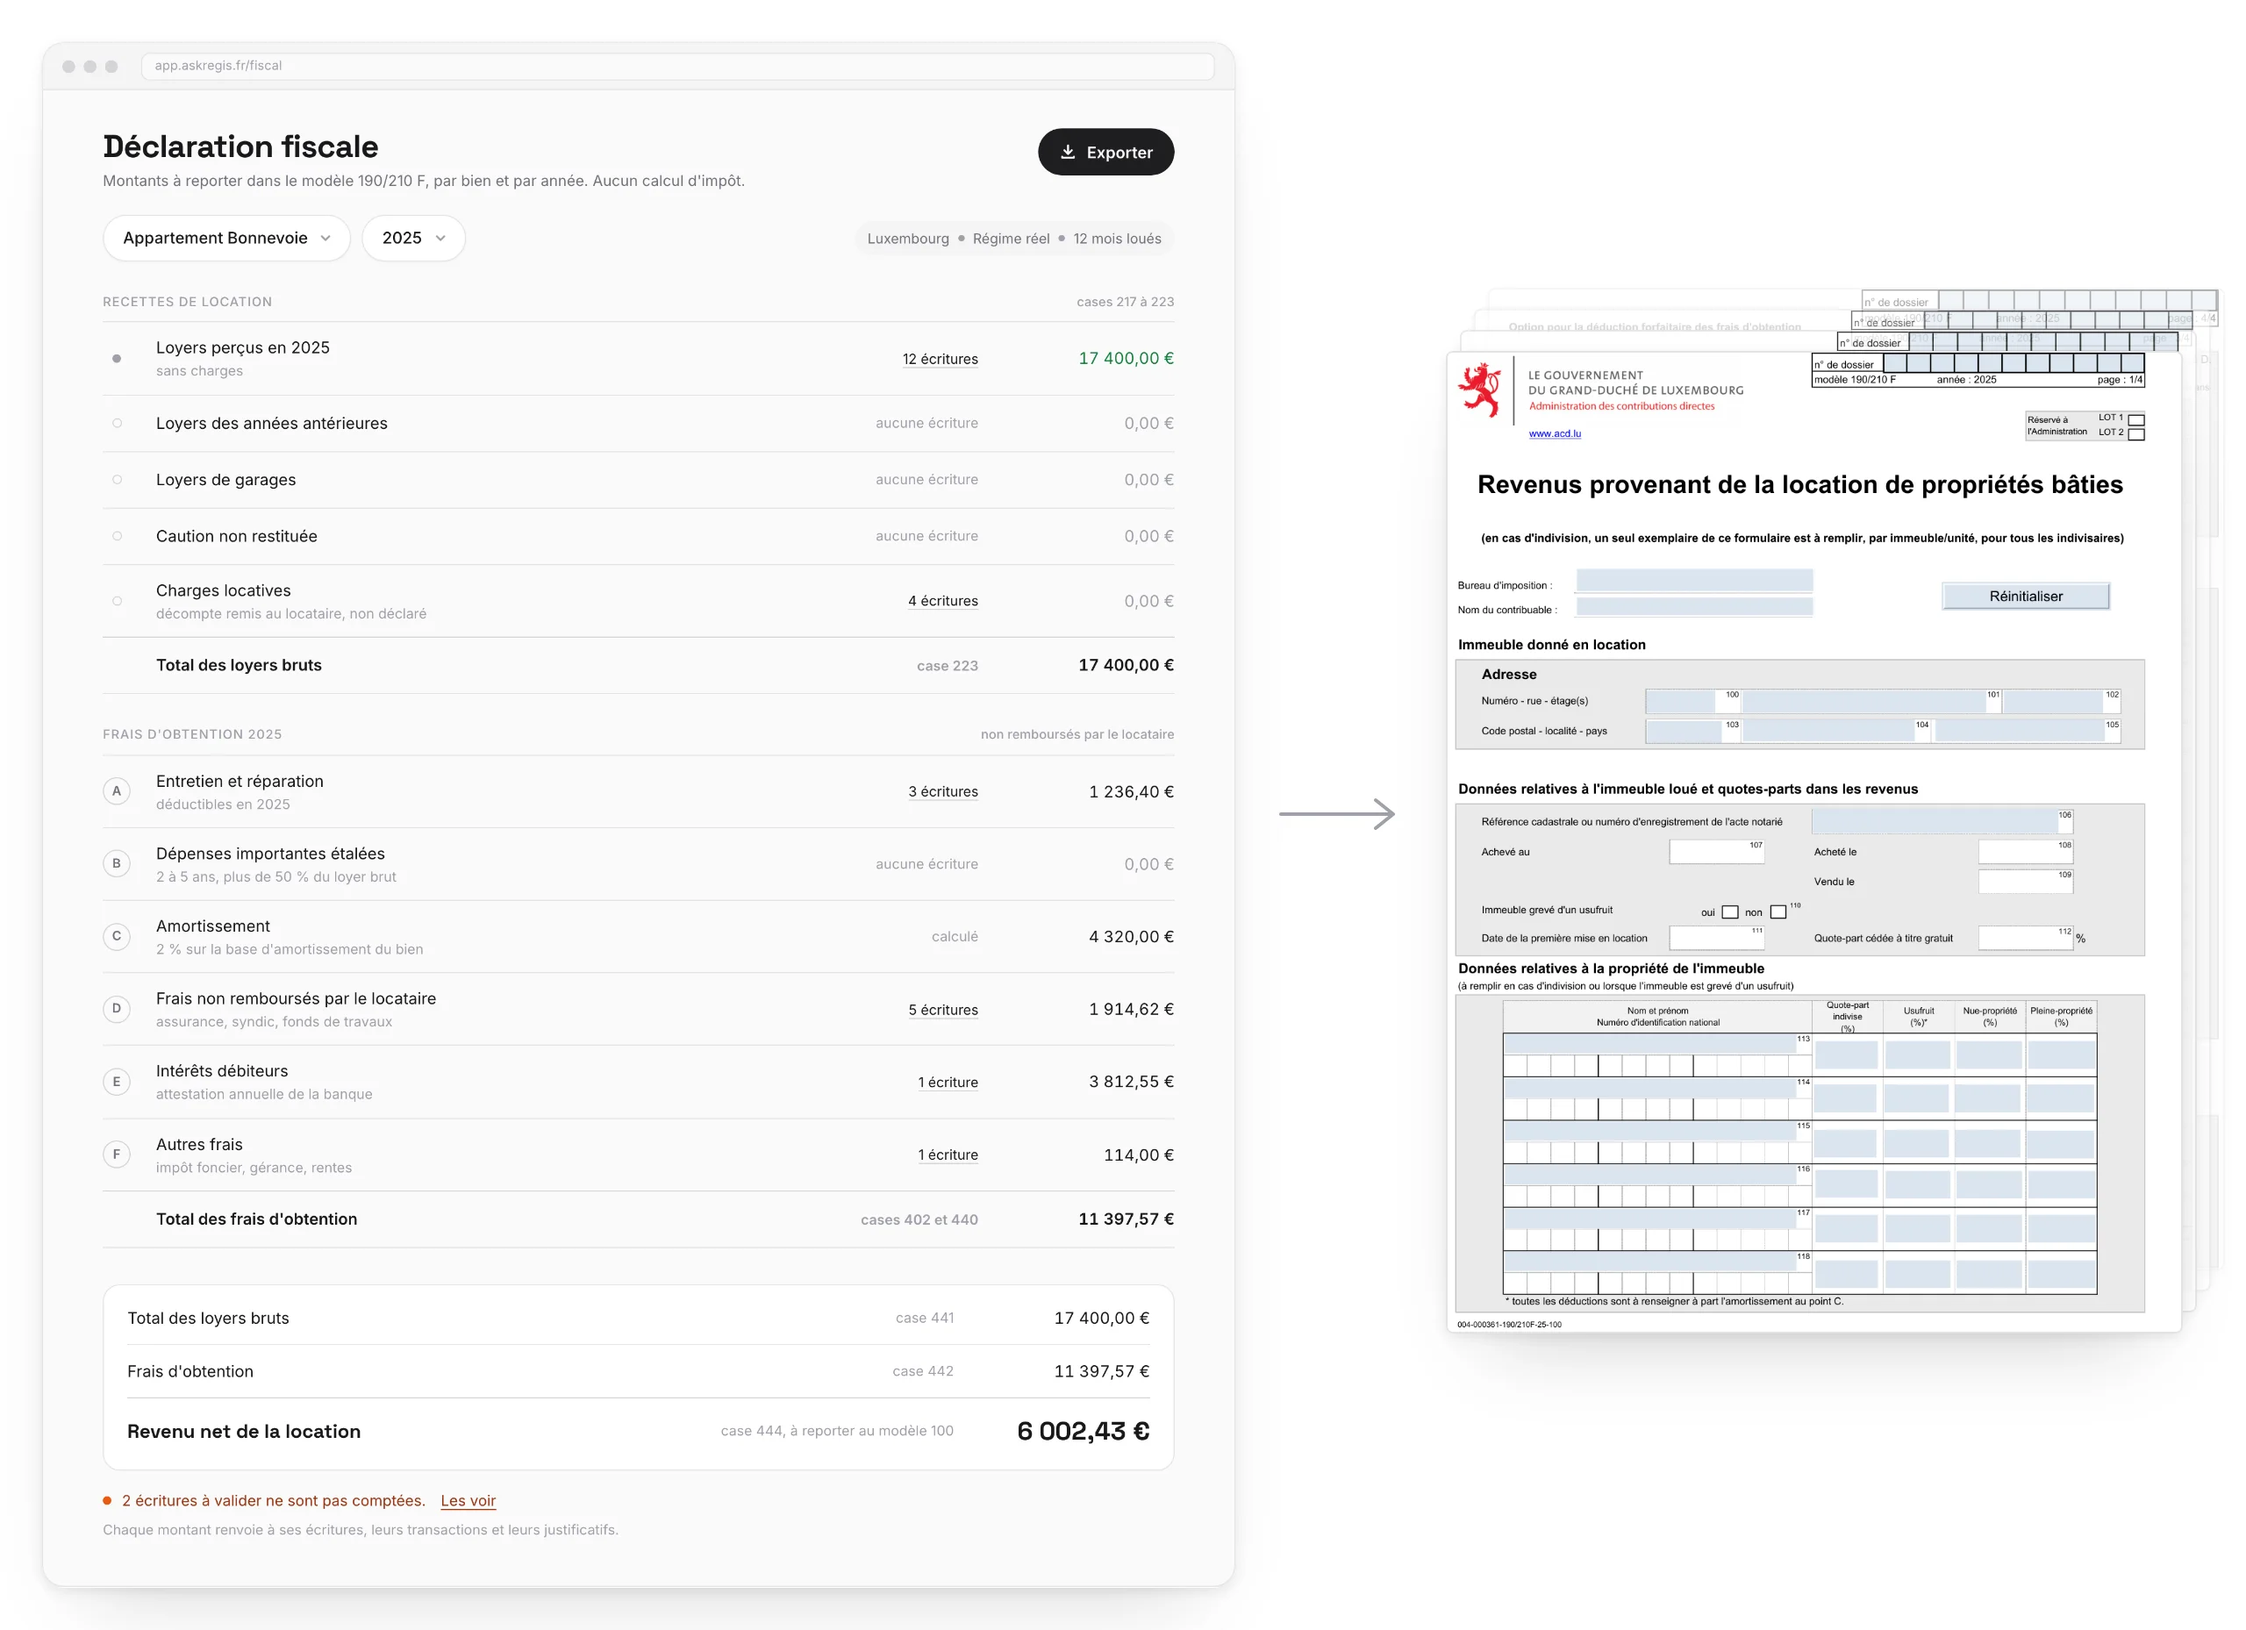
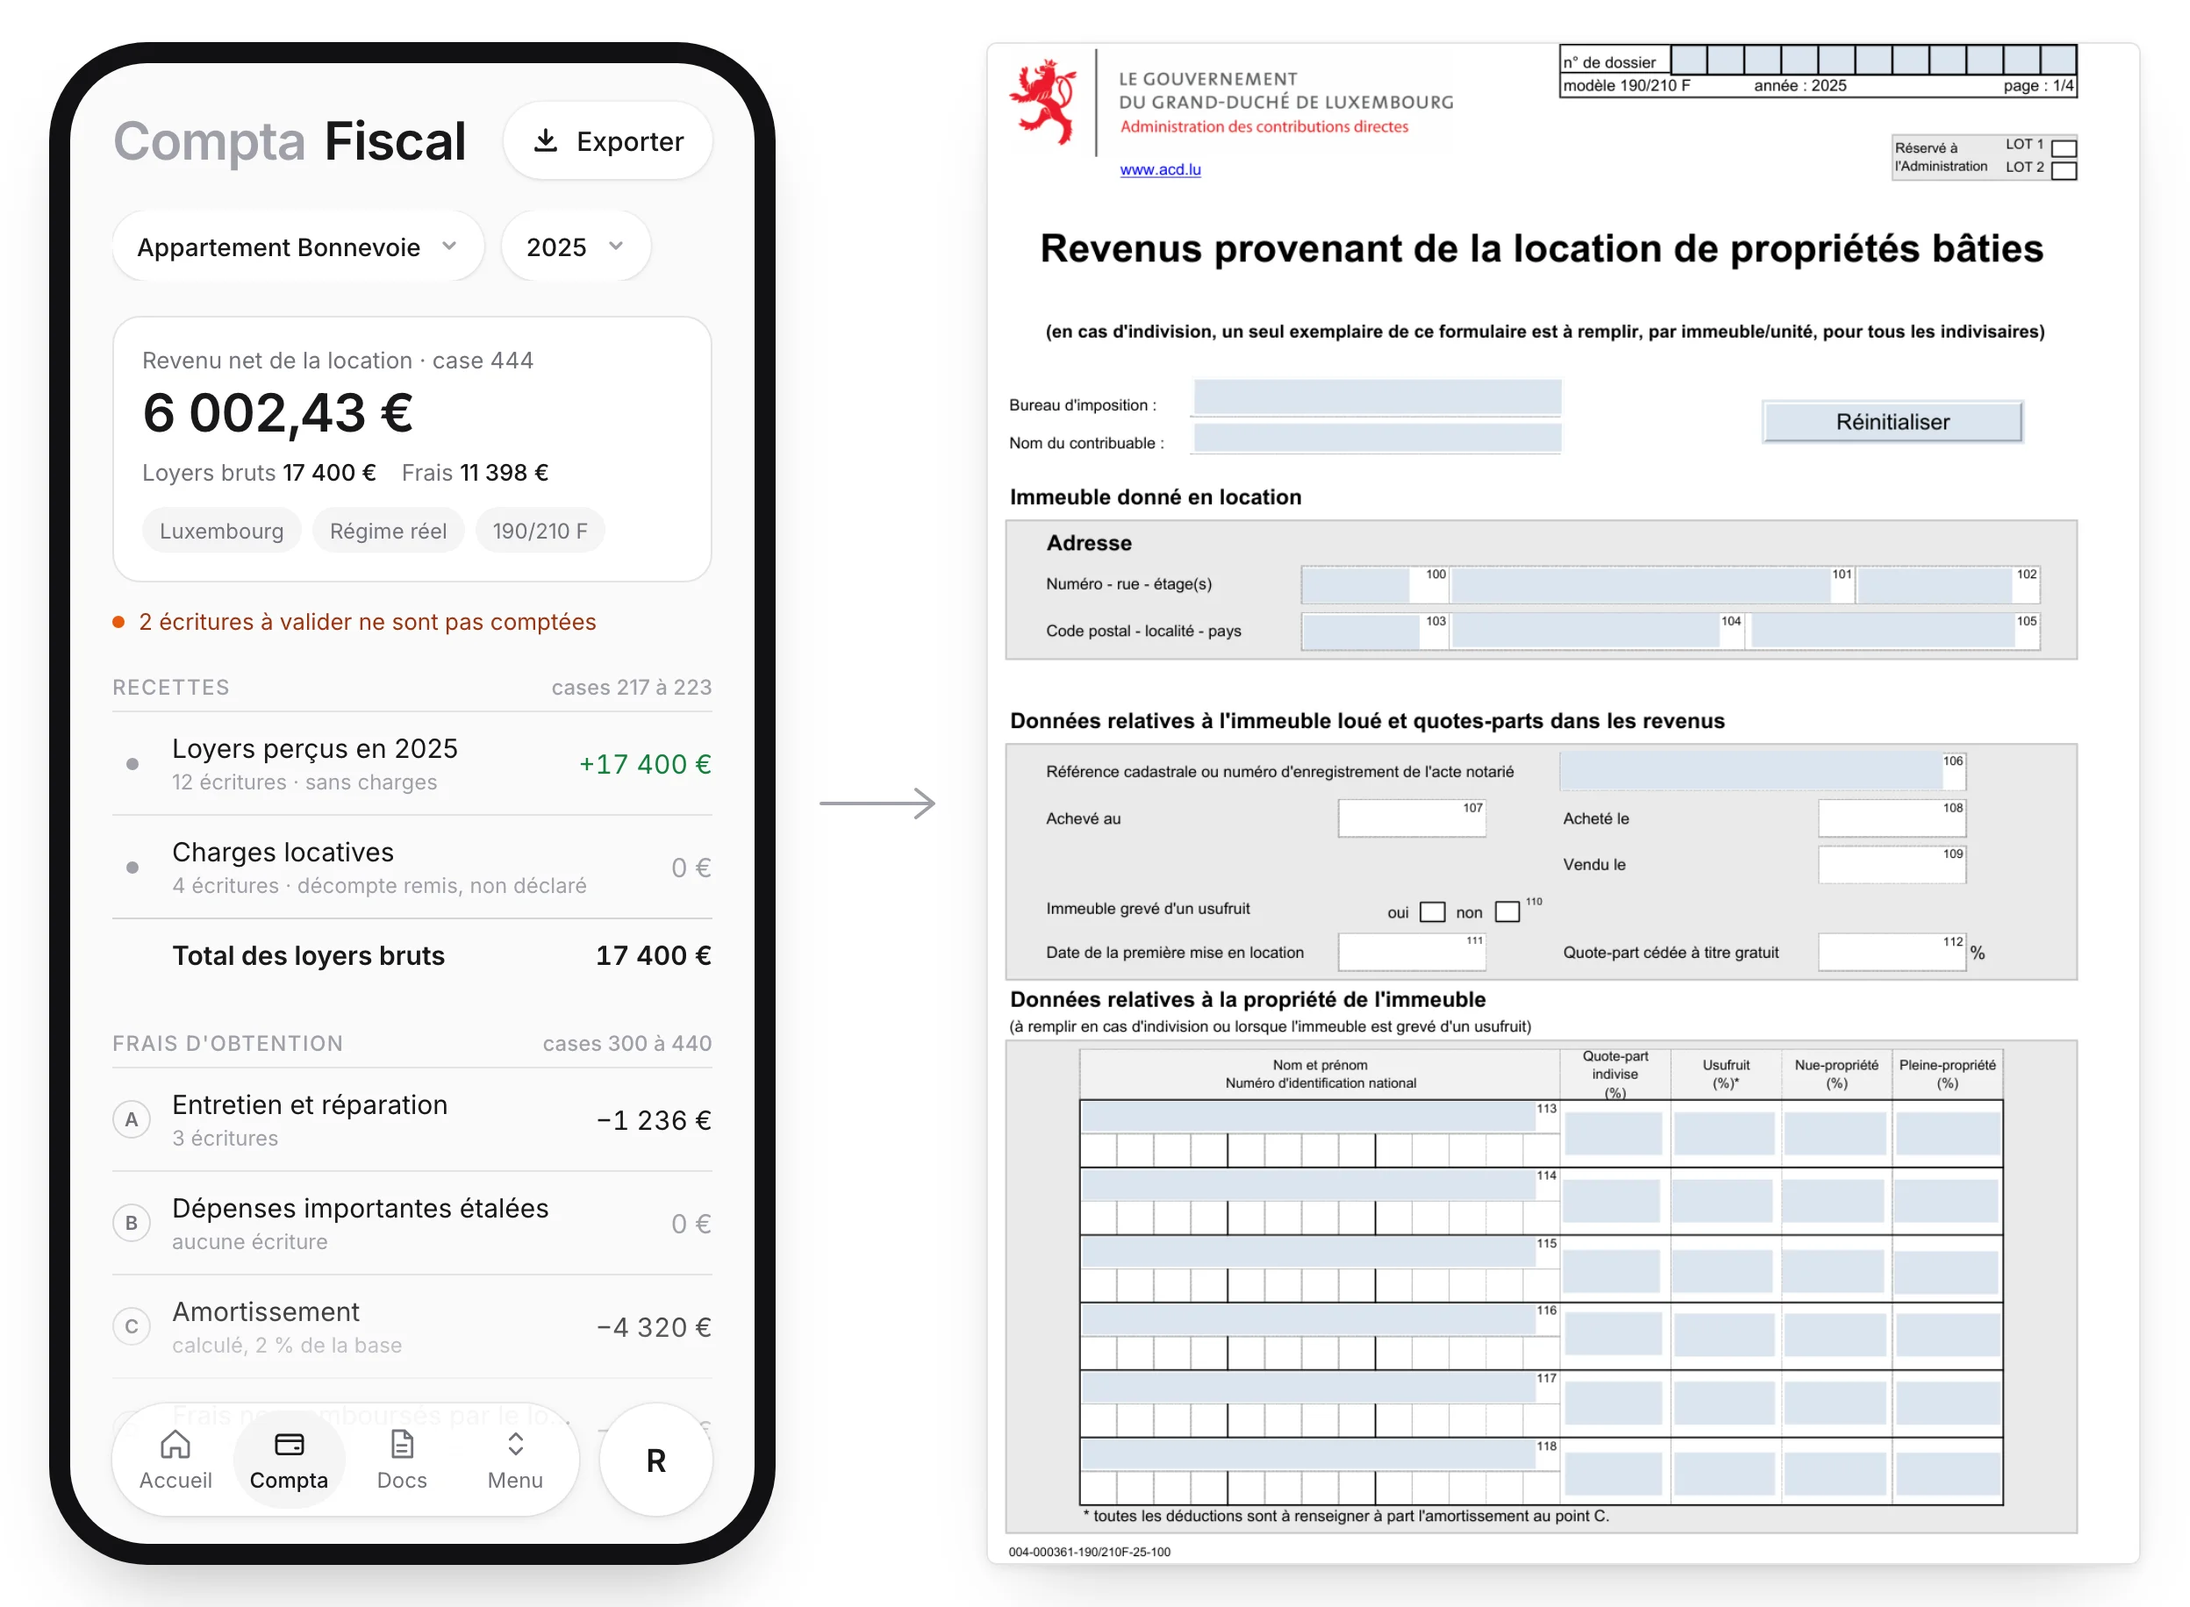
feat(case-studies): Regis, etape 4 en dev, page fiscale mobile vers le 190/210 F, corps en trois messages

diff --git a/docs/regis-case-study-step-4.md b/docs/regis-case-study-step-4.md
@@ -9,10 +9,10 @@
 >
 > Images, both in `public/images/Experiences/Regis/` on branch
 > `claude/regis-etape-4`:
-> - `regis-app-tax-report.webp` (2240 × 2902), the tax page alone. Same
+> - `regis-app-tax-report.webp` (780 × 1688), the tax page on mobile, in the app's own layout. Same
 >   filename step 3.8 already points to, so it fills that placeholder as is.
-> - `regis-app-tax-report-to-form.webp` (2560 × 1858), the page, an arrow,
->   the four pages of the 190/210 F. For this step.
+> - `regis-app-tax-report-to-form.webp` (2496 × 1832), the phone, an arrow,
+>   page 1 of the 190/210 F at the same height. For this step.
 >
 > Both are **designs** rendered from HTML in the Regis tokens
 > (`app-mvp/app/globals.css`), not captures. The data is a fictional
@@ -28,50 +28,82 @@
 
 ## Title, five options (numbered, about 80 characters per line, 150 max)
 
-1. `4. Ran it on the family portfolio first: a year of books is in, the tax report reads from them, and the beta opens once the last screen ships`
-2. `4. Dogfooded it on ten properties before opening the beta: the data holds, the report is computed, the front is what is left to finish`
-3. `4. Proved it on my own family before anyone else: a year of entries in, the 2025 figures read from the data, thirty landlords next`
-4. `4. Made my family the first beta: every entry of the year is in, the tax figures come out of the data, the network beta opens after one screen`
-5. `4. First user: my family. The data is in, the report comes out, and the beta waits on one screen and an onboarding`
+Jonathan's brief: alpha with the family, the fiscal figures come out for
+properties at the real-cost regime, the tax screen is in design and the
+property onboarding in development, the last blockers before the open beta.
+Or the impact alone: the books already run on it, every 2025 and 2026 figure
+is in, the 2025 return is prepared from it.
 
-Recommendation: 1. It names the result (the books, the report), the honest
-state (one screen left) and the next move (the beta), in that order. 5 if you
-want it short.
+1. `4. Ran it on the family portfolio first: every 2025 and 2026 figure is in, and the 2025 return is being prepared from it`
+2. `4. Alpha with my family: two years of books in Regis, and the tax figures come out for every property at the real-cost regime`
+3. `4. It already keeps the family books: 2025 and 2026 in full, the 2025 return prepared from the data, the tax screen in design`
+4. `4. Used it for real before anyone else: the family books for 2025 and 2026 are in, and the 2025 return comes out of the data`
+5. `4. The family books run on it, 2025 and 2026 in full; the tax screen and the property onboarding are the last blockers before the open beta`
+
+Recommendation: 1 (in the dev page now). It is the impact, and it keeps the
+beta out of the title. 5 if the blockers belong in the title.
 
 ---
 
-## Body
+## Body, three messages
 
-The first landlord on Regis was my family. I loaded the portfolio straight into the backend, about ten properties, the bank accounts, the leases, and we have run a full year of books in it since: statements imported, lines sorted by the engine, entries validated in the evening, invoices attached when they arrive. That is the test I trusted most, because it is the hardest case I know, thirty years of documents and two generations with different habits, and because any shortcut I took would land on my own return.
+**1. It is used.** Alpha with the family, data migrated by hand, the books for
+2025 and 2026 are in, the 2025 return is prepared from them. Carries the
+numbers.
 
-The last piece of the flow is the one above. Once the year's entries are validated and each carries its property and a category, the tax page reads them per property and per year and groups the amounts by line of the 190/210 F: rents received, then the six blocks of deductible costs, A to F, and the net rental income to carry over to the main return. Every amount names how many entries it comes from and opens on them, so a figure can always be walked back to a bank line and a document. What the page does not do is deliberate: no tax figure, no form filled in, an export of the amounts, not of the form. Scope is Luxembourg and the real-cost regime, nothing else yet. Today I read those figures for the family from the data. The screen is the design I am building now, on a fictional property.
+**2. The figures come out.** Real-cost regime, amounts per line of the
+190/210 F, traceable to bank line and document, no tax figure. The screen is
+the design, in progress.
 
-- **Why the beta is not open yet:** my family never went through an onboarding, because I migrated the data by hand. A stranger has to create a property and a lease alone, and has to reach this page to get what the product promises. So three things stand between the family and the first outside user: the onboarding for properties and leases, the last parts of the front, which I still bypass through the backend, and the tax page itself.
+**3. What is left, then what comes next.** Two blockers (this screen, the
+property and lease onboarding), then the closed beta in the network, content on
+the form, ads in October and November.
 
-- **Then, in this order:** a closed beta in my own network, twenty to thirty Luxembourg landlords, as soon as the tax page ships. Content on how to fill in the 190/210 F and what changed in it this year, written from the same categories the product uses. And targeted ads in October and November, the two months when landlords actually sit down with the pile, before the 31 December deadline.
+Text as spliced in the dev page (`### 5.` in this worktree's file, which still
+has the old numbering):
 
-![row: The tax page, designed in the Regis system, and the four pages of the 190/210 F it fills](/images/Experiences/Regis/regis-app-tax-report-to-form.webp)
+Alpha with my family since summer 2026. I migrated the portfolio straight into the database, no onboarding: [N] properties, [N] bank lines, [N] entries, [N] documents. The books for 2025 and 2026 are in, validated line by line, and the 2025 return is being prepared from them.
+
+![row: The tax page on mobile, designed in the Regis system, and page 1 of the 190/210 F it fills](/images/Experiences/Regis/regis-app-tax-report-to-form.webp)
+
+- **The figures come out.** For a property at the real-cost regime, the amounts per line of the 190/210 F are read from the validated entries, each one traceable to its bank line and its document. No tax figure, no form filled in: the amounts, ready to copy. Today I read them from the data; the screen above is its design, in progress.
+
+- **Two things before the open beta.** This screen, and the onboarding to create a property and a lease, which my family never needed because I loaded the data by hand.
+
+- **Then, in this order.** A closed beta in my network, twenty to thirty Luxembourg landlords. Content on how to fill in the 190/210 F and what changed in it this year. Ads in October and November, when landlords sit down with the pile, before the 31 December deadline.
+
+---
+
+## Numbers to fill the `[N]` (Jonathan's idea: show real usage)
+
+Read-only counts on the Regis database, to run or approve. Suggested split:
+properties, bank lines, entries by status (validated, to validate, locked),
+documents.
+
+```sql
+select
+  (select count(*) from bien) as properties,
+  (select count(*) from transaction_bancaire) as bank_lines,
+  (select count(*) from ecriture where statut = 'validee') as entries_validated,
+  (select count(*) from ecriture where statut = 'a_valider') as entries_to_validate,
+  (select count(*) from document) as documents;
+```
+
+Table and column names to check against the schema before running.
 
 ---
 
 ## Key results, candidates for the context block (outcomes only, figure in bold)
 
-Pick what you can stand behind. Nothing here is a beta number.
-
-- **About ten properties** and a full year of books run in Regis by my family, the first and hardest user
+- **[N] bank lines** and **[N] entries** for 2025 and 2026 in Regis, the family books run on it
 - **91 of 91** bank lines restored from a PDF statement on import, balance checked (repo fact)
-- **Every figure** of the 2025 return for the family portfolio traceable to a bank line and a document
-- Tax report computed from the data for **one year** of entries, no manual re-entry
+- **Every amount** of the 2025 return traceable to a bank line and a document
+- Tax figures for **[N] properties** at the real-cost regime read from the data, no re-entry
 
 ---
 
 ## Left out on purpose
 
-- The sixteen accounts and six weekly users: Jonathan withdrew it, it opens questions he cannot answer yet.
-- The parents' individual usage (who does what, on which device): not given. The body says "two generations with different habits" and no more. Add a scene here if you want one.
+- The sixteen accounts and six weekly users: withdrawn by Jonathan.
+- The parents' individual usage: not given, not written.
 - Mobile against desktop, the data bet, the agencies hypothesis, the Go/No-Go: step 5.
-
-## Audit
-
-No em dash, no banned word (`writing-style`), no metric without a base. Bold
-only on the two bullet leads, as in step 2.

diff --git a/content/case-studies/regis-v2.md b/content/case-studies/regis-v2.md
@@ -111,9 +111,17 @@ Access is scoped the same way the data is: every table is protected by row-level
 
 The last piece was not in my plan. Beta users said the same thing in different words: I am afraid of doing something stupid and not being able to tell. So I added an **activity** timeline on every entry: who changed what, the value before and the value after, whether the actor was a person, the import or the assistant, and when. Written only by the application, never editable, it replaced the "created on, modified on" footer that answered none of those questions. It is also what makes validation reversible without fear: an entry can go back from validated to "to validate" until it is locked by a tax report, and the timeline keeps the trace.
 
-### 5. Put it in my parents' hands, then in twenty landlords' hands
+### 5. Ran it on the family portfolio first: every 2025 and 2026 figure is in, and the 2025 return is being prepared from it
 
-TBD
+Alpha with my family since summer 2026. I migrated the portfolio straight into the database, no onboarding: [N] properties, [N] bank lines, [N] entries, [N] documents. The books for 2025 and 2026 are in, validated line by line, and the 2025 return is being prepared from them.
+
+![row: The tax page on mobile, designed in the Regis system, and page 1 of the 190/210 F it fills](/images/Experiences/Regis/regis-app-tax-report-to-form.webp)
+
+- **The figures come out.** For a property at the real-cost regime, the amounts per line of the 190/210 F are read from the validated entries, each one traceable to its bank line and its document. No tax figure, no form filled in: the amounts, ready to copy. Today I read them from the data; the screen above is its design, in progress.
+
+- **Two things before the open beta.** This screen, and the onboarding to create a property and a lease, which my family never needed because I loaded the data by hand.
+
+- **Then, in this order.** A closed beta in my network, twenty to thirty Luxembourg landlords. Content on how to fill in the 190/210 F and what changed in it this year. Ads in October and November, when landlords sit down with the pile, before the 31 December deadline.
 
 ### 6. What I know, what I do not, and what comes next
 
